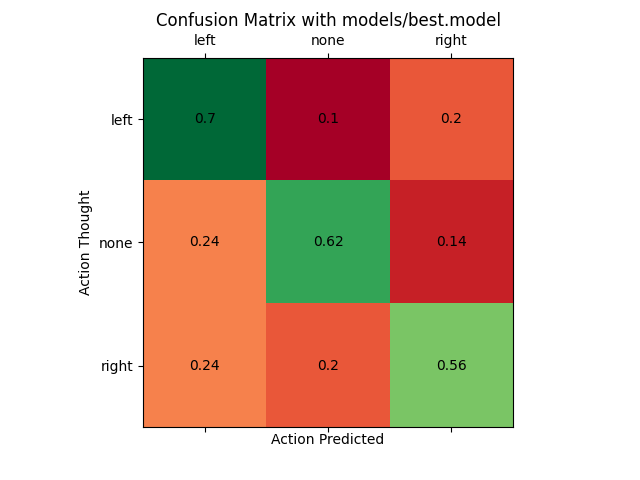
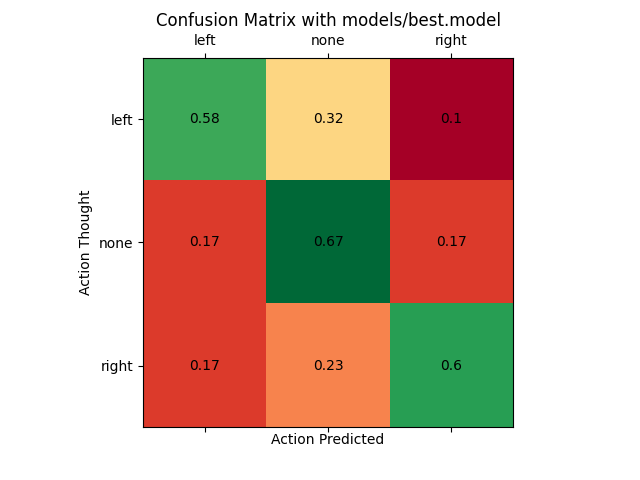
Added Coupling

diff --git a/dataset_tools.py b/dataset_tools.py
@@ -6,7 +6,7 @@ import os
 ACTIONS = ["left", "right", "none"]
 
 
-def split_data(starting_dir="data", splitting_percentage=(65, 20, 15), shuffle=True, division_factor=5):
+def split_data(starting_dir="data", splitting_percentage=(65, 20, 15), shuffle=True, coupling=True, division_factor=5):
     """
         This function splits the dataset in three folders, training, validation, untouched
         Has to be run just everytime the dataset is changed
@@ -18,6 +18,7 @@ def split_data(starting_dir="data", splitting_percentage=(65, 20, 15), shuffle=T
                                 so one sample is very similar to an adjacent one, so not all the samples
                                 should be considered because some very similar samples could fall both in
                                 validation and training, thus the division_factor divides the data
+    :param coupling: bool, decides if samples are shuffled singularly or by couples
 
     """
     training_per, validation_per, untouched_per = splitting_percentage
@@ -36,8 +37,6 @@ def split_data(starting_dir="data", splitting_percentage=(65, 20, 15), shuffle=T
             action_data = []
             all_action_data = []
             # this will contain all the samples relative to the action
-            # the usage of a list is necessary if python version <=3.6,
-            # before that dictionaries were unordered
 
             data_dir = os.path.join(starting_dir, action)
             # sorted will make sure that the data is appended in the order of acquisition
@@ -46,12 +45,33 @@ def split_data(starting_dir="data", splitting_percentage=(65, 20, 15), shuffle=T
                 # each item is a ndarray of shape (8, 90) that represents ≈1sec of acquisition
                 all_action_data.append(np.load(os.path.join(data_dir, file)))
 
-            for i in range(len(all_action_data)):
-                if i % division_factor == 0:
-                    action_data.append(all_action_data[i])
+            if coupling:
+                # coupling near time acquired samples to reduce the probability of having
+                # similar samples in both train and validation sets
+                coupled_actions = []
+                first = True
+                for i in range(len(all_action_data)):
+                    if i % division_factor == 0:
+                        if first:
+                            tmp_act = all_action_data[i]
+                            first = False
+                        else:
+                            coupled_actions.append([tmp_act, all_action_data[i]])
+                            first = True
 
-            if shuffle:
-                np.random.shuffle(action_data)
+                if shuffle:
+                    np.random.shuffle(coupled_actions)
+
+                # reformatting all the samples in a single list
+                for i in range(len(coupled_actions)):
+                    for j in range(len(coupled_actions[i])):
+                        action_data.append(coupled_actions[i][j])
+
+            else:
+                action_data = all_action_data
+                if shuffle:
+                    np.random.shuffle(action_data)
+
 
             num_training_samples = int(len(action_data) * training_per / 100)
             num_validation_samples = int(len(action_data) * validation_per / 100)
@@ -203,7 +223,7 @@ def check_duplicate(train_X, test_X):
     return False
 
 
-def gaussian_filter(x=np.linspace(0, 90, 90), mu=50, sig=0.6):
+def gaussian_filter(x=np.linspace(0, 90, 90), mu=50, sig=0.5):
     # with the default values this will make a good filter for the 50Hz noise from electronic equipment
     # change mu to 60 if you are in the US
     return -(np.exp(-np.power(x - mu, 2.) / (2 * np.power(sig, 2.)))) + 1

diff --git a/training.py b/training.py
@@ -14,13 +14,13 @@ import time
 # print("Num GPUs Available: ", len(tf.config.experimental.list_physical_devices('GPU'))
 
 def main():
-    split_data(shuffle=True, division_factor=6)
+    split_data(shuffle=True, division_factor=5)
 
     print("loading training_data")
-    train_X, train_y = load_data(starting_dir="training_data", shuffle=True)
+    train_X, train_y = load_data(starting_dir="training_data", shuffle=False)
 
     print("loading validation_data")
-    validation_X, validation_y = load_data(starting_dir="validation_data", shuffle=True)
+    validation_X, validation_y = load_data(starting_dir="validation_data", shuffle=False)
 
     # print("loading untouched_data")
     # untouched_X, untouched_y = load_data(starting_dir="untouched_data")
@@ -36,8 +36,8 @@ def main():
     # newaxis is used to mach the input of a Conv2D
     # we are considering the samples as a grayscale image
 
-    train_X = standardize(standardize(np.array(train_X)), std_type="feature_wise")[:, :, :, np.newaxis]
-    validation_X = standardize(standardize(np.array(validation_X)), std_type="feature_wise")[:, :, :, np.newaxis]
+    train_X = standardize(np.array(train_X))[:, :, :, np.newaxis]
+    validation_X = standardize(np.array(validation_X))[:, :, :, np.newaxis]
     # untouched_X = np.array(untouched_X)[:, :, :, np.newaxis]
 
     train_y = np.array(train_y)
@@ -54,7 +54,7 @@ def main():
                   optimizer='adam',
                   metrics=['accuracy'])
 
-    #tf.keras.utils.plot_model(model, "pictures/crisnet.png", show_shapes=True)
+    # tf.keras.utils.plot_model(model, "pictures/crisnet.png", show_shapes=True)
 
     batch_size = 3
     epochs = 8

diff --git a/check_model.py b/check_model.py
@@ -7,7 +7,7 @@ import numpy as np
 
 def evaluate_model(untouched_X, untouched_y, model_path):
     print("loading untouched_data")
-    untouched_X = standardize(standardize(np.array(untouched_X)), std_type="feature_wise")[:, :, :, np.newaxis]
+    untouched_X = standardize(np.array(untouched_X))[:, :, :, np.newaxis]
     untouched_y = np.array(untouched_y)
 
     model = keras.models.load_model(model_path)
@@ -50,5 +50,5 @@ if __name__ == "__main__":
     for i in range(len(untouched_X)):
         untouched_X[i] = [(untouched_X[i][j] * gaussian_filter()) for j in range(len(untouched_X[0]))]
 
-    score = evaluate_model(untouched_X, untouched_y, 'models/63.13-6epoch-1600471670-loss-0.17.model')
+    score = evaluate_model(untouched_X, untouched_y, 'models/61.25-4epoch-1600473355-loss-0.17.model')
     print("Accuracy on Untouched Data: ", score[1])

diff --git a/neural_nets.py b/neural_nets.py
@@ -54,7 +54,10 @@ def cris_net():
         MaxPool2D(pool_size=(2, 2), strides=3),
 
         Conv2D(filters=64, kernel_size=(5, 5), activation='tanh',
-               kernel_regularizer=regularizers.l2(1e-5), padding="same"),
+               kernel_regularizer=regularizers.l2(1e-6), padding="same"),
+
+        Conv2D(filters=32, kernel_size=(3, 3), activation='tanh',
+               kernel_regularizer=regularizers.l2(1e-6), padding="same"),
 
         MaxPool2D(pool_size=(2, 2), strides=2),
 
